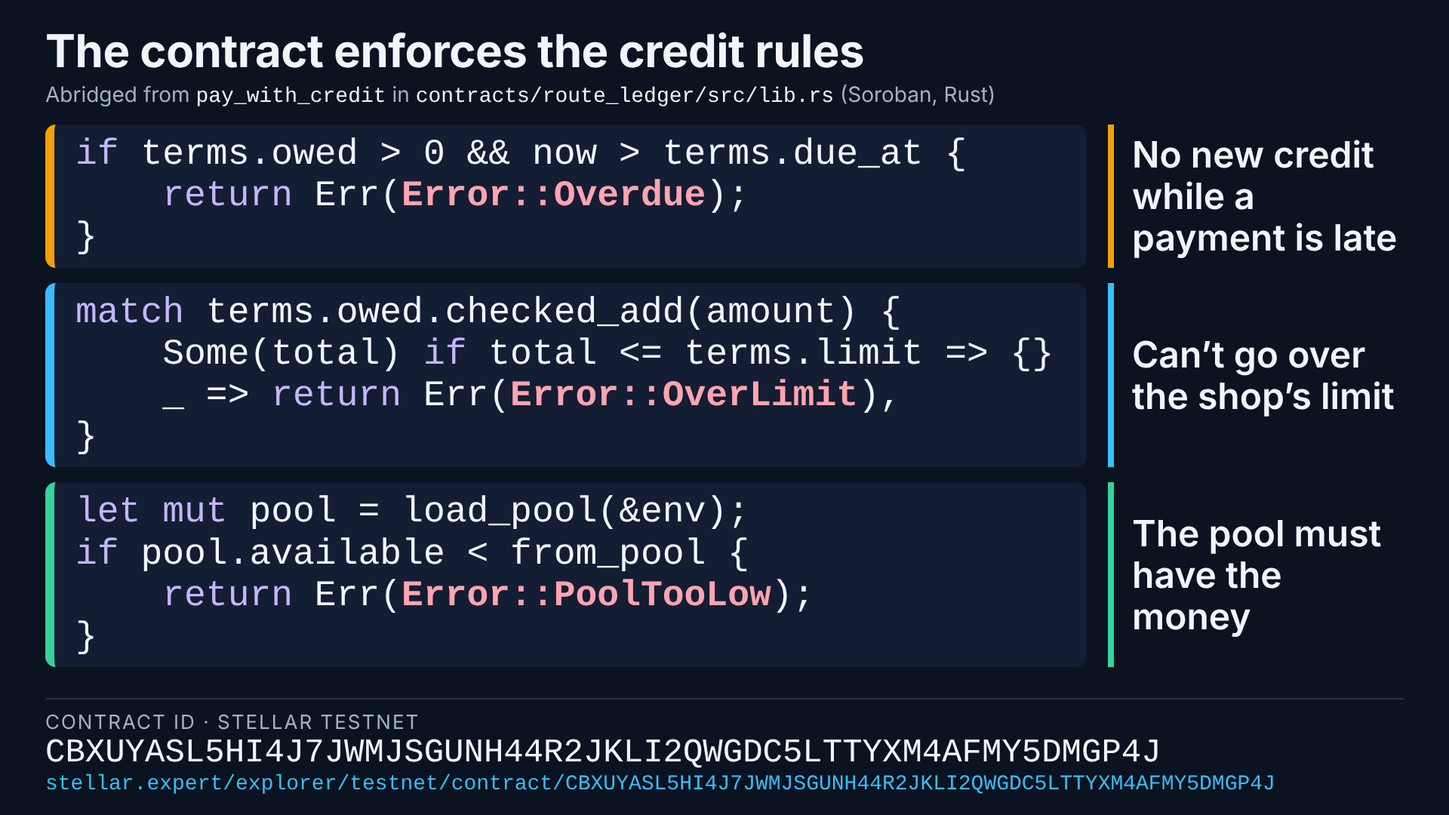
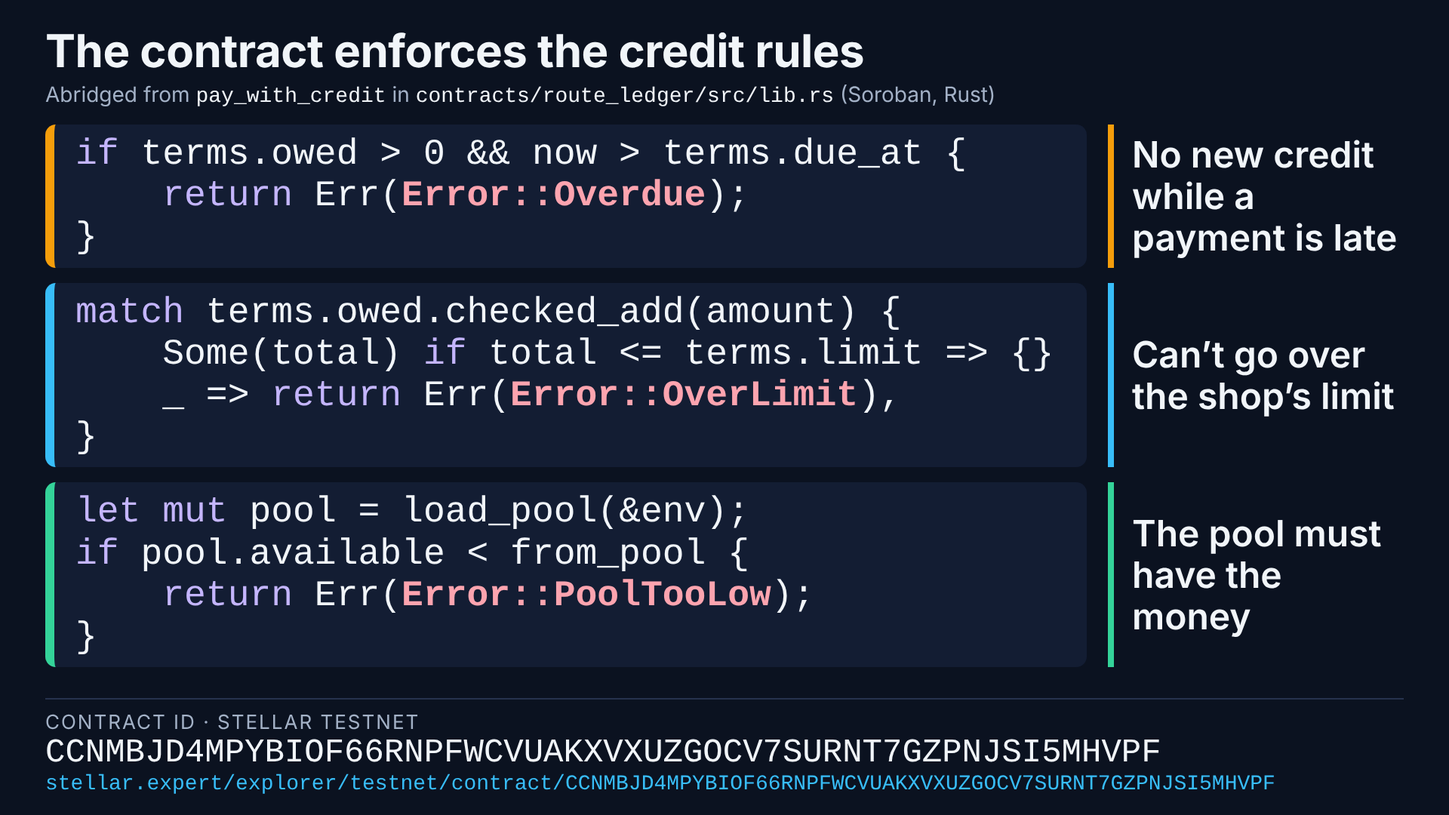
Redeploy after #251: live contract CCNMBJD4…, docs and code slide (#253)
* Redeploy: trusted 26/52 weeks, cash usage fees collected (#251)

* Live contract CCNMBJD4... everywhere; #250/#229 moved to Live in §7.8; code slide re-rendered

Claude-Session: https://claude.ai/code/session_012ShQunP3fqoPLPFGRjJtYT

---------

Changed region(s): [[0.0312, 0.8861, 0.875, 0.9778]]

diff --git a/packages/route_ledger/src/client.ts b/packages/route_ledger/src/client.ts
@@ -68,6 +68,11 @@ export interface Client {
   cash_confirm(args: { shop: string | Address; id: bigint; amount: bigint }, options?: MethodOptions): Promise<AssembledTransaction<Result<null, Error>>>;
   get_recourse(args: { distributor: string | Address }, options?: MethodOptions): Promise<AssembledTransaction<RecourseView>>;
   /**
+   * A distributor pays the usage fees it owes on cash invoices (#229), for
+   * a route whose shops only pay cash, so no digital payout nets them.
+   */
+  settle_usage(args: { distributor: string | Address; amount: bigint }, options?: MethodOptions): Promise<AssembledTransaction<Result<null, Error>>>;
+  /**
    * Anyone can call this once a shop the distributor vouches for is more
    * than `MINOR_LATE_DAYS` days late (#185). The distributor's deposit pays
    * the pool the vouched part, and the distributor collects from the shop
@@ -157,7 +162,7 @@ export interface Client {
 export class Client extends ContractClient {
   constructor(public readonly options: ContractClientOptions) {
     super(
[2 lines of base64/hex data omitted]
       options
     );
   }
@@ -166,7 +171,7 @@ export class Client extends ContractClient {
     return ContractClient.deploy(args, options);
   }
   public readonly fromJson = {
-    pay : this.txFromJson<Result<null, Error>>,  repay : this.txFromJson<Result<null, Error>>,  vouch : this.txFromJson<Result<null, Error>>,  deposit : this.txFromJson<Result<null, Error>>,  get_pool : this.txFromJson<Pool>,  get_shop : this.txFromJson<ShopView>,  withdraw : this.txFromJson<Result<bigint, Error>>,  is_lender : this.txFromJson<boolean>,  pay_later : this.txFromJson<Result<null, Error>>,  set_terms : this.txFromJson<Result<null, Error>>,  cash_claim : this.txFromJson<Result<null, Error>>,  get_config : this.txFromJson<Config>,  get_lender : this.txFromJson<LenderView>,  get_totals : this.txFromJson<Totals>,  fund_buffer : this.txFromJson<Result<null, Error>>,  get_invoice : this.txFromJson<Result<Invoice, Error>>,  cash_confirm : this.txFromJson<Result<null, Error>>,  get_recourse : this.txFromJson<RecourseView>,  call_recourse : this.txFromJson<Result<bigint, Error>>,  cover_default : this.txFromJson<Result<null, Error>>,  invoice_count : this.txFromJson<number>,  list_invoices : this.txFromJson<Array<Invoice>>,  revoke_lender : this.txFromJson<Result<null, Error>>,  approve_lender : this.txFromJson<void>,  cash_handed_in : this.txFromJson<Result<null, Error>>,  create_invoice : this.txFromJson<Result<null, Error>>,  get_cash_claim : this.txFromJson<bigint>,  get_usage_owed : this.txFromJson<bigint>,  is_distributor : this.txFromJson<boolean>,  get_driver_cash : this.txFromJson<bigint>,  pay_with_credit : this.txFromJson<Result<null, Error>>,  deposit_recourse : this.txFromJson<Result<null, Error>>,  offer_own_credit : this.txFromJson<Result<null, Error>>,  offers_own_credit : this.txFromJson<boolean>,  withdraw_recourse : this.txFromJson<Result<null, Error>>,  list_invoices_page : this.txFromJson<Array<Invoice>>,  revoke_distributor : this.txFromJson<void>,  approve_distributor : this.txFromJson<void>
+    pay : this.txFromJson<Result<null, Error>>,  repay : this.txFromJson<Result<null, Error>>,  vouch : this.txFromJson<Result<null, Error>>,  deposit : this.txFromJson<Result<null, Error>>,  get_pool : this.txFromJson<Pool>,  get_shop : this.txFromJson<ShopView>,  withdraw : this.txFromJson<Result<bigint, Error>>,  is_lender : this.txFromJson<boolean>,  pay_later : this.txFromJson<Result<null, Error>>,  set_terms : this.txFromJson<Result<null, Error>>,  cash_claim : this.txFromJson<Result<null, Error>>,  get_config : this.txFromJson<Config>,  get_lender : this.txFromJson<LenderView>,  get_totals : this.txFromJson<Totals>,  fund_buffer : this.txFromJson<Result<null, Error>>,  get_invoice : this.txFromJson<Result<Invoice, Error>>,  cash_confirm : this.txFromJson<Result<null, Error>>,  get_recourse : this.txFromJson<RecourseView>,  settle_usage : this.txFromJson<Result<null, Error>>,  call_recourse : this.txFromJson<Result<bigint, Error>>,  cover_default : this.txFromJson<Result<null, Error>>,  invoice_count : this.txFromJson<number>,  list_invoices : this.txFromJson<Array<Invoice>>,  revoke_lender : this.txFromJson<Result<null, Error>>,  approve_lender : this.txFromJson<void>,  cash_handed_in : this.txFromJson<Result<null, Error>>,  create_invoice : this.txFromJson<Result<null, Error>>,  get_cash_claim : this.txFromJson<bigint>,  get_usage_owed : this.txFromJson<bigint>,  is_distributor : this.txFromJson<boolean>,  get_driver_cash : this.txFromJson<bigint>,  pay_with_credit : this.txFromJson<Result<null, Error>>,  deposit_recourse : this.txFromJson<Result<null, Error>>,  offer_own_credit : this.txFromJson<Result<null, Error>>,  offers_own_credit : this.txFromJson<boolean>,  withdraw_recourse : this.txFromJson<Result<null, Error>>,  list_invoices_page : this.txFromJson<Array<Invoice>>,  revoke_distributor : this.txFromJson<void>,  approve_distributor : this.txFromJson<void>
   };
 
   /** @deprecated Use fromJson instead. */
@@ -237,6 +242,12 @@ export class Client extends ContractClient {
    */
   cashHandedInEventFilter(topicValues?: { driver?: string | Address }): string[] {
     return this.spec.eventTopicFilter("CashHandedIn", topicValues);
+  }
+  /**
+   * Build a topics filter row for the "UsageSettled" event, for use in `Api.EventFilter.topics` when calling `server.getEvents`. Omitted fields match any value.
+   */
+  usageSettledEventFilter(topicValues?: { distributor?: string | Address }): string[] {
+    return this.spec.eventTopicFilter("UsageSettled", topicValues);
   }
   /**
    * Build a topics filter row for the "CashConfirmed" event, for use in `Api.EventFilter.topics` when calling `server.getEvents`. Omitted fields match any value.

diff --git a/packages/route_ledger/src/types.ts b/packages/route_ledger/src/types.ts
@@ -330,6 +330,22 @@ export interface CashHandedInEvent {
 }
 
 /**
+ * Usage fees owed on cash invoices were paid (#229): netted from a payout,
+ * or sent by the distributor with `settle_usage`.
+ */
+export interface UsageSettledEvent {
+  name: "UsageSettled";
+  data: {
+    distributor: string;
+    amount?: bigint;
+    /**
+     * What it still owes after that.
+     */
+    owed?: bigint;
+  };
+}
+
+/**
  * Union: InvoiceStatus
  */
  export type InvoiceStatus =
@@ -508,5 +524,5 @@ export interface DistributorApprovedEvent {
     distributor: string;
   };
 }
-    export type ContractEvent = RepaidEvent | VouchedEvent | TermsSetEvent | DepositedEvent | PaidLaterEvent | WithdrawnEvent | CashClaimedEvent | InvoicePaidEvent | BufferFundedEvent | CashHandedInEvent | CashConfirmedEvent | LenderRevokedEvent | DefaultCoveredEvent | InvoiceCreatedEvent | LenderApprovedEvent | PaidWithCreditEvent | RecourseCalledEvent | OwnCreditOfferedEvent | RecourseDebtPaidEvent | RecourseDepositedEvent | RecourseWithdrawnEvent | DistributorRevokedEvent | DistributorApprovedEvent;
+    export type ContractEvent = RepaidEvent | VouchedEvent | TermsSetEvent | DepositedEvent | PaidLaterEvent | WithdrawnEvent | CashClaimedEvent | InvoicePaidEvent | BufferFundedEvent | CashHandedInEvent | UsageSettledEvent | CashConfirmedEvent | LenderRevokedEvent | DefaultCoveredEvent | InvoiceCreatedEvent | LenderApprovedEvent | PaidWithCreditEvent | RecourseCalledEvent | OwnCreditOfferedEvent | RecourseDebtPaidEvent | RecourseDepositedEvent | RecourseWithdrawnEvent | DistributorRevokedEvent | DistributorApprovedEvent;
     

diff --git a/docs/context.md b/docs/context.md
@@ -360,7 +360,7 @@ Learn only what your next task needs. Each item has a "done means" so you know w
 **In short**
 - Distributors pay us. Shops never pay a fee, and we never take a cut of anyone's savings.
 - Two small fees, both written into the contract so anyone can check them:
-  1. **Usage fee:** 0.05% to 0.1% of every invoice paid in cash or digitally. Credit sales don't pay it, because our cut is already inside the 1.5% credit fee (Nov 10). The demo contract uses 0.1%; for cash, no digital money moves, so the contract records it (`UsageOwed`) and collects it from the distributor's next digital or credit payout, or the distributor pays it with `settle_usage` (#229, live after the next redeploy). The rate is the same for cash and digital, so it doesn't push anyone back to cash. (This replaced the earlier monthly per-truck fee.)
+  1. **Usage fee:** 0.05% to 0.1% of every invoice paid in cash or digitally. Credit sales don't pay it, because our cut is already inside the 1.5% credit fee (Nov 10). The demo contract uses 0.1%; for cash, no digital money moves, so the contract records it (`UsageOwed`) and collects it from the distributor's next digital or credit payout, or the distributor pays it with `settle_usage` (#229, live since the Nov 16 redeploy after #251). The rate is the same for cash and digital, so it doesn't push anyone back to cash. (This replaced the earlier monthly per-truck fee.)
   2. **A share of the credit fee** when a shop uses "pay in 7 days".
 - Later: lenders and banks pay to see a shop's payment record, only with the shop's permission.
 
@@ -568,7 +568,7 @@ What not to say: that cash-in is solved, or that $1.25 is a quote. Until the fie
 
 ### 7.8 What's live and what's planned (Nov 16)
 
-Live means it's on the site today, on the contract in `config/testnet.json`. Planned means decided but not built, or built but not merged. The final redeploy ran on Nov 16 (contract `CBXUYASL…GP4J`, PR #222), so everything that waited in [#234 "Waiting for redeploy"](https://github.com/yahyahashme/relay/issues/234) is live now and #234 is closed.
+Live means it's on the site today, on the contract in `config/testnet.json`. Planned means decided but not built, or built but not merged. The latest redeploy ran on Nov 16 (contract `CCNMBJD4…5MHVPF`, after PR #251; the one before was `CBXUYASL…GP4J`, PR #222), so everything that waited in [#234 "Waiting for redeploy"](https://github.com/yahyahashme/relay/issues/234) and in #251 is live now.
 
 **Live**
 - **Credit starts only after 2 digital payments** (#217, #218). A new shop gets no credit at sign-up. Credit opens after 2 deliveries paid in full in dólares digitales at the door, a credit period apart (a week; 2 minutes in the demo). The first limit is half its usual delivery, $50 to $100. A runaway shop takes about $100 at most and loses its supplier.
@@ -599,11 +599,11 @@ Live means it's on the site today, on the contract in `config/testnet.json`. Pla
   4. **Legal action** (estafa) is a manual step after closing, backed by the liability agreement each distributor signs (§11); the admin writes it in the review's note.
   Not checked yet: the same phone (device) signing in to both accounts. Cash breaks the circle trail (a friend buys digital dollars at a counter); long term, only payments from ID-checked sources count.
 - **Credit v3** (#220, PR #222): "Crédito Relay X/500", tiered growth (+$10 to +$30 by the size of each on-time repayment, at least $10 repaid, once a period, up to $500), the "Calificación Relay" from 1 to 10, and lenders see pool numbers only. Details in §7.3.
+- **Trusted-shop discount takes 6 months and a year** (#250, PR #251, Rohan): `TRUSTED_CYCLES` 26 and `HIGHLY_TRUSTED_CYCLES` 52 (were 4 and 8).
+- **Cash usage fees are collected** (#229, PR #251, options A + B): cash invoices still add 0.10% to `UsageOwed(distributor)`. The distributor's next payout (a digital payment, a credit payout or a deposit withdrawal) sends what it owes to the treasury first, after any recourse debt, never more than the payout, with a `UsageSettled` event. A cash-only distributor pays with `settle_usage(distributor, amount)`. Option C (a cap on unpaid fees) is a policy in the liability agreement (#221), not code.
 - **Full recourse on vouched shops** (PR #222): if a vouched shop doesn't pay, the distributor owes all of it, first from its deposit, then from its next payouts (digital payments, credit payouts, deposit withdrawals). It can't vouch for new shops until it's paid, and the dashboard shows "Debe $X al fondo".
 
-**Waiting for the next redeploy** (contract changes merged on `main`, not yet on `CBXUYASL…`)
-- **Trusted-shop discount takes 6 months and a year** (#250, Rohan): `TRUSTED_CYCLES` 26 and `HIGHLY_TRUSTED_CYCLES` 52 (were 4 and 8).
-- **Cash usage fees are collected** (#229, options A + B): cash invoices still add 0.10% to `UsageOwed(distributor)`. The distributor's next payout (a digital payment, a credit payout or a deposit withdrawal) sends what it owes to the treasury first, after any recourse debt, never more than the payout, with a `UsageSettled` event. A cash-only distributor pays with `settle_usage(distributor, amount)`. Option C (a cap on unpaid fees) is a policy in the liability agreement (#221), not code.
+**Waiting for the next redeploy:** nothing (Nov 16).
 
 **Planned**
 - **Real ID checks** (game plan §2d). An identity-verification partner checks the legal representative's DUI against the national registry (RNPN), with a selfie and liveness check, for about $0.20 to $1.50 a person. Don't name the provider in the pitch. An admin checks the CNR registration by hand. Payouts only go to an account in the company's name at our bank or cash-in partner, which runs its own KYB. Lenders also show their licence. Shops get a light DUI check only when they first take credit. The pilot distributor is checked by hand on a call; the partner check comes before the second distributor.
@@ -939,6 +939,7 @@ Every number and quote is in `docs/facts.md`. The two right-hand columns are our
 | Nov 16 | Credit only in digital dollars (Yahya: "all credit payments only via usdc"). Pool credit already was. An invoice on the distributor's own 7 days can no longer be paid in cash: app now, contract `cash_claim` refuses it with the #222 redeploy. The 1.5% fee was never at risk (the pool keeps it when it pays the distributor). |
 | Nov 16 | Part cash at the door kept (Yahya, after first removing it in #237): cash part now, the rest on the lenders' 7 days, repaid only in dólares digitales. The fee is kept when the pool pays, so cash never touches credit. Cash still can't pay an invoice on the distributor's own 7 days. |
 | Nov 16 | Final redeploy (PR #222): contract `CBXUYASL5HI4J7JWMJSGUNH44R2JKLI2QWGDC5LTTYXM4AFMY5DMGP4J`. Credit v3, full recourse, credit repaid only digitally and cash earning no up-front benefit are live; #234 closed. Smoke test on testnet: $50 cash + $100 credit paid 1.50%, half digital + half credit 1.22%, a $100 repay raised the limit $200 → $225. |
+| Nov 16 | Redeploy after PR #251: contract `CCNMBJD4MPYBIOF66RNPFWCVUAKXVXUZGOCV7SURNT7GZPNJSI5MHVPF` replaces `CBXUYASL…GP4J`. Trusted tiers at 26/52 good weeks (#250) and cash usage fees collected from the next payout or `settle_usage` (#229) are live; §7.8 moved them to Live. Bindings regenerated, accounts resynced. |
 | Nov 16 | Cash up front earns no credit benefit (Yahya: the cash part "should count as way less credit or even none"). The contract keeps `CashPaid` per invoice, and `pay_with_credit` prices the fee and the half-up-front waiver as if the cash part weren't on the invoice: $50 cash + $50 on credit pays 1.50% like $50 all on credit; $50 in digital dollars + $50 on credit pays 1.22%. Goes out with the #222 redeploy. |
 | Nov 16 | #231 fraud flags built (Yahya's policy, #221): six checks on every distributor's invoices after each new invoice and on "Revisar ahora" in `/admin`, credit on the pool paused while in review, "Pedir prueba" (DTE code or delivery photo), "Despejar" or "Cerrar cuenta" (`revoke_distributor`; for a shop, limit $0), and a note for legal action. Stored in `fraud_reviews`. App only. Details in §7.8. |
 | Nov 16 | Full recourse on vouched shops (Yahya: "every shop that doesn't pay back on credit, the distributor owes the lenders that same amount"). Contract, stacked on #222 for one redeploy: `take_recourse` moves the whole vouched debt to the distributor; what the deposit can't pay is `RecourseDebt`, counted as lent, paid first from its next payouts (`pay_distributor` in `pay`, `pay_with_credit`, `withdraw_recourse`); `vouch` refuses with error 22 while it owes, and its credit sales go at the normal fee. A default still sets the shop's limit to $0. The 20% deposit minimum stays. |

diff --git a/docs/pitch/one-pager.md b/docs/pitch/one-pager.md
@@ -49,7 +49,7 @@ Distributors pay, never shops: up to 1.5% to be paid instantly on pay-in-7-days 
 Target: 120 to 150 words.
 
 <!-- q6 -->
-Rohan studies FARM (Financial Analysis and Risk Management), which covers the credit and risk side. Three engineers (software, two computer) built and tested our public contract, CBXUYASL5HI4J7JWMJSGUNH44R2JKLI2QWGDC5LTTYXM4AFMY5DMGP4J on Stellar testnet, and the app: https://relay-sv.vercel.app. Then we asked for help: 2 advisor calls, and emails to 4 banks and a supermarket chain in El Salvador. We are first-year Waterloo students and none of us has run a shop, so we learned this from them.
+Rohan studies FARM (Financial Analysis and Risk Management), which covers the credit and risk side. Three engineers (software, two computer) built and tested our public contract, CCNMBJD4MPYBIOF66RNPFWCVUAKXVXUZGOCV7SURNT7GZPNJSI5MHVPF on Stellar testnet, and the app: https://relay-sv.vercel.app. Then we asked for help: 2 advisor calls, and emails to 4 banks and a supermarket chain in El Salvador. We are first-year Waterloo students and none of us has run a shop, so we learned this from them.
 
 We also say the hardest part plainly. Risk #1 is turning cash into digital dollars, and our demo simulates it. MoneyGram lists cash-out points in El Salvador. For cash-in, a shop can already get USDC on Stellar through a Chivo cash machine and a LOBSTR wallet swap, for about $1.25 on $50 on published fees. We field-test that route first. Long term, a licensed partner converts cash in bulk and does KYC on shops and KYB on distributors.
 <!-- /q6 -->
@@ -81,12 +81,12 @@ Every number in answers 4 to 6. "Confirm" means Rohan checks it against his fina
 | four first-year students | 6 | Context header | True as of Nov 10. |
 | Rohan studies FARM (Financial Analysis and Risk Management) | 6 | Yahya's review comment on #64 (Nov 10). Context says only "FARM". | Rohan to confirm the wording. |
 | Three engineers (software, two computer) built and tested the contract and app | 6 | Yahya's review comment on #64; context header lists the programs | Yahya to confirm this fairly describes all three. |
-| Contract `CBXUYASL…` and https://relay-sv.vercel.app | 6 | `config/testnet.json` (`contracts.routeLedger`) and the README table; the URL returned HTTP 200 on Nov 12 | New ID after the #139 redeploy (it replaces `CDHDZX7V…`, which replaced `CAPQ6ZDD…` in #90). Verified 12 Nov: the ID in answer 6 equals `contracts.routeLedger` in `config/testnet.json` (same on `origin/main`) and the README table; `curl -sI https://relay-sv.vercel.app` returned HTTP 200. `CANWPJKT…` in the same file is the test USDC token, not our contract. Re-check if the contract is redeployed again. |
+| Contract `CCNMBJD4…` and https://relay-sv.vercel.app | 6 | `config/testnet.json` (`contracts.routeLedger`) and the README table; the URL returned HTTP 200 on Nov 12 | New ID after the #139 redeploy (it replaces `CDHDZX7V…`, which replaced `CAPQ6ZDD…` in #90). Verified 12 Nov: the ID in answer 6 equals `contracts.routeLedger` in `config/testnet.json` (same on `origin/main`) and the README table; `curl -sI https://relay-sv.vercel.app` returned HTTP 200. `CANWPJKT…` in the same file is the test USDC token, not our contract. Re-check if the contract is redeployed again. |
 | 2 advisor calls | 6 | `docs/research.md` "Advisor calls (Nov 9)" (merged in #72, #17) | Matches the log (two advisors, both calls Mon Nov 9); checked by Claude, 12 Nov, against the file on `main`. |
 | emails to 4 banks and a supermarket chain in El Salvador | 6 | `docs/research.md` "Partner outreach", PR #89 (#10): five rows dated Nov 10 (Promerica, Abank, Integral, Davivienda, Súper Selectos) | Checked by Claude, 12 Nov. The Nov 11 email to a Davivienda colleague is not counted again. The log's own pitch line says "6 banks and cash-in companies", which counts that email as a sixth organisation; recount if Rohan sends more tonight. PR #89 is still open, so the log is not on `main` yet. |
 | Cut: shop-owner and distributor conversations (#7), prototype walkthroughs (#30) | 6 | No count in issues #7, #30 or any `docs/research.md` | Removed Nov 12 because no number is logged. Add one back only if it is logged before submit. |
 
-**After the final redeploy (Nov 16, #222/#234):** answer 6 now has `CBXUYASL…`, the live ID in `config/testnet.json`. The copy submitted on Nov 13 had `CAGCZ3I7…` (retired).
+**After the Nov 16 redeploy (#251):** answer 6 now has `CCNMBJD4…`, the live ID in `config/testnet.json` (before it: `CBXUYASL…`, #222). The copy submitted on Nov 13 had `CAGCZ3I7…` (retired).
 
 **After #139 (Nov 13).** The contract was redeployed: answer 6 now has the live ID, `CAGCZ3I7…` (`config/testnet.json`). A copy sent before #139 had `CDHDZX7V…`, the ID then. The credit fee is now **up to** 1.5%: 1.5% when the whole invoice goes on credit and lower, down to 1%, when the shop pays part up front. Answer 5 still says "1.5%" (true at full credit); say "up to 1.5%" if it's reused.
 

diff --git a/docs/product/security.md b/docs/product/security.md
@@ -2,7 +2,7 @@
 
 This is the page to open when someone asks "who can move the money?". It covers the `route_ledger` contract (`contracts/route_ledger/src/lib.rs`), how keys are handled, what is real versus demo, and how we handle fraud. It is a testnet demo: no real dollars, no outside audit.
 
-Reviewed Nov 16, 2026 against `lib.rs` on main: the live contract `CBXUYASL…GP4J` (PR #222: credit v3, full recourse, cash rules) plus #251 (trusted tiers at 26/52 good weeks, cash usage fees collected), which goes live with the next redeploy. Claims about the contract have a test in `contracts/route_ledger/src/test.rs`; the names are in brackets.
+Reviewed Nov 16, 2026 against `lib.rs` on main: the live contract `CCNMBJD4…5MHVPF` (redeployed Nov 16 after #251): PR #222 (credit v3, full recourse, cash rules) plus #251 (trusted tiers at 26/52 good weeks, cash usage fees collected). Claims about the contract have a test in `contracts/route_ledger/src/test.rs`; the names are in brackets.
 
 ## 1. Who can move the money
 
@@ -18,7 +18,7 @@ Every state-changing function either calls `require_auth()` on the address it ta
 | `cash_claim` | the driver on the invoice | its invoice, not paid, **not on the distributor's own 7 days** (`OnPayLater`), amount above 0 and not over what is left | nothing; it stores the claim [`pay_later_is_never_paid_in_cash`]. |
 | `cash_confirm` | the shop on the invoice | a claim exists, it equals the amount the shop saw (`ClaimChanged`), still fits what is left | no tokens. Adds to `paid`, the driver's cash total and the distributor's usage fee owed. Records the cash part, which earns no up-front fee benefit [`cash_up_front_earns_no_lower_credit_fee`, `cash_up_front_does_not_count_as_half_paid`]. |
 | `cash_handed_in` | a distributor that was ever approved | amount above 0 and not over what the driver holds | no tokens; lowers the driver's cash total (limit 3). |
-| `settle_usage` (#251, next redeploy) | the distributor | amount above 0 and not over what it owes | its own tokens to the treasury, for usage fees on cash. Its next payout (digital, credit or deposit withdrawal) also pays them first, after any recourse debt. |
+| `settle_usage` (#251) | the distributor | amount above 0 and not over what it owes | its own tokens to the treasury, for usage fees on cash. Its next payout (digital, credit or deposit withdrawal) also pays them first, after any recourse debt. |
 | `deposit` | an approved lender | approved and not revoked (`NotLender`), amount above 0 | the lender's own tokens into the pool, for shares at today's value [`only_approved_lenders_can_deposit`, `a_later_lender_does_not_take_earlier_earnings`]. |
 | `withdraw` | the lender | has the shares (`NotEnoughShares`), the money isn't lent out (`PoolTooLow`) | **pool money**, to that lender only, at the shares' value [`lender_earns_on_credit_and_withdraws_it`, `lent_money_cannot_be_withdrawn_until_repaid`]. |
 | `set_terms` | admin | limit not negative | nothing directly; sets a shop's limit. |
@@ -102,7 +102,7 @@ The Stellar Development Foundation can wipe testnet, which deletes our contract,
 ## 7. Known limits
 
 1. **The admin is trusted.** It can't move tokens, but with `approve_distributor` and `set_terms` it could make an address it controls a distributor and give a shop it controls a large limit. For real: the licensed partner as a multisig, a cap on limits, and vetting for each distributor.
-2. **Usage fees on cash are collected only from payouts or by choice.** Since #251 (next redeploy) the next payout to the distributor pays them first, and `settle_usage` lets a cash-only distributor pay. A distributor that never takes a payout and never settles still owes them; the liability agreement caps how much can stay unpaid (policy, not code).
+2. **Usage fees on cash are collected only from payouts or by choice.** Since #251 (live Nov 16) the next payout to the distributor pays them first, and `settle_usage` lets a cash-only distributor pay. A distributor that never takes a payout and never settles still owes them; the liability agreement caps how much can stay unpaid (policy, not code).
 3. **`cash_handed_in` can't tell which distributor a driver works for.** Any approved (or revoked) distributor can lower any driver's cash total. Bookkeeping only; no tokens move.
 4. **The buffer only moves in `cover_default`,** from the buffer back to the lenders. A written-off debt repaid later refills the buffer, not the lenders who took the loss.
 5. **A stale cash claim stays in storage** after the invoice is paid another way. `cash_confirm` rejects it; screens ignore it.

diff --git a/docs/pitch/deck-outline.md b/docs/pitch/deck-outline.md
@@ -53,7 +53,7 @@ The words for each slide are in `docs/pitch/deck-slides.md`, under the same numb
 
 ### 5. The code
 - **Message:** the credit rules are real contract code, not a mock-up.
-- **Visual:** `docs/img/code-slide.png` (from #56). Ready on `main`: PR #82 (merged) repaired the render and added `SCALE=3 node docs/pitch/slides/render.mjs` for print-size images, and the PNG was re-rendered Fri Nov 13 after #139, so it shows the contract ID of the time (CAGCZ3I7..., retired Nov 16; re-rendered Nov 16 for the live CBXUYASL..., equal to `contracts.routeLedger` in `config/testnet.json`) and the current `pay_with_credit` blocks (overdue check, `match` limit check, pool check). The two older IDs it used to show (CAPQ6ZDD... before #90, CDHDZX7V... between #90 and #139) are gone. The script reads the ID and the code itself, but the PNG does not update itself: re-render it after any redeploy or any change to `pay_with_credit`.
+- **Visual:** `docs/img/code-slide.png` (from #56). Ready on `main`: PR #82 (merged) repaired the render and added `SCALE=3 node docs/pitch/slides/render.mjs` for print-size images, and the PNG was re-rendered Fri Nov 13 after #139, so it shows the contract ID of the time (CAGCZ3I7..., retired Nov 16; re-rendered Nov 16 for CBXUYASL..., then again for the live CCNMBJD4... after #251, equal to `contracts.routeLedger` in `config/testnet.json`) and the current `pay_with_credit` blocks (overdue check, `match` limit check, pool check). The two older IDs it used to show (CAPQ6ZDD... before #90, CDHDZX7V... between #90 and #139) are gone. The script reads the ID and the code itself, but the PNG does not update itself: re-render it after any redeploy or any change to `pay_with_credit`.
 - **Needs:** nothing. The deployed contract's WASM hash matches a fresh build of #139's code (checked Nov 13, comment on #139). `git log` shows #139 (Fri Nov 13, 7:36 PM ET, commit 517b426) as the last change under `contracts/`; its merge also put the new ID in `config/testnet.json`.
 
 ### 6. Money in 30 seconds, and go-to-market
@@ -113,7 +113,7 @@ For slide 3 and the trifold's middle panel. They have to come from the live app 
 | "What we heard from N people" | #30; `docs/research.md` (#72) | cut from slide 7 on Nov 14: 0 conversations with users (PR #152 logs messages sent only). Add it back only with a real count |
 | Slide text for the 8 slides | `docs/pitch/deck-slides.md` | refreshed Nov 12; slide 7 updated Nov 14. The only bracket left is slide 8's `[our ask]` |
 | Real phone screenshots | live app; steps above | captured in PR #119 (`docs/pitch/trifold/img/`); #125 and #126 merged after, so compare with the live app and recapture if they differ |
-| Code slide with the real contract ID | #56 follow-up, PR #82 | done (Nov 13): PR #82 merged, and the PNG was re-rendered after #139; `docs/img/code-slide.png` on `main` shows the live ID (CBXUYASL..., re-rendered Nov 16 after the final redeploy). Re-render after any redeploy |
+| Code slide with the real contract ID | #56 follow-up, PR #82 | done (Nov 13): PR #82 merged, and the PNG was re-rendered after #139; `docs/img/code-slide.png` on `main` shows the live ID (CCNMBJD4..., re-rendered Nov 16 after the #251 redeploy). Re-render after any redeploy |
 | Print-size slide images | `SCALE=3 node docs/pitch/slides/render.mjs` (PR #82) | merged; the option is in `docs/pitch/slides/render.mjs` (render on the computer that prints, after the last redeploy) |
 | Architecture picture with the fee-sponsorship line | #119 put it back after #113 turned sponsorship on | done, on `main` |
 | Our ask | team decision | open |

diff --git a/docs/pitch/showcase-and-finals.md b/docs/pitch/showcase-and-finals.md
@@ -157,7 +157,7 @@ Run this on the file you are about to upload, not on the draft.
 
 - [ ] **Every number has a `docs/facts.md` entry.** Read each slide and write the entry number next to each number. A number with no entry: take it out, or add the entry in a PR first. Nothing from the "Never use" list at the top of `docs/facts.md`.
 - [ ] **"$35 per $100" says "2019 survey"** wherever it appears (facts entry 10).
-- [ ] **Any contract ID equals `contracts.routeLedger` in `config/testnet.json`.** Compare character by character, on the slide and on any image such as the code slide. Do not copy an ID from an old doc. **Since the final redeploy (Nov 16) the live ID is `CBXUYASL5HI4J7JWMJSGUNH44R2JKLI2QWGDC5LTTYXM4AFMY5DMGP4J`; everything below about `CAGCZ3I7…` is history.** On Fri Nov 13 evening the live ID was `CAGCZ3I7…` (the #139 redeploy; `config/testnet.json` and the README table). `docs/img/code-slide.png` on `main` shows it since #165 (merged Sat Nov 14; read by eye on Nov 14: the start `CAGCZ3I7CQHZDELPV5…` and the end `…HED7HV4ML` match). `docs/pitch/demo-video.md` and answer 6 of `docs/pitch/one-pager.md` still hold the previous one (`CDHDZX7V…`) on `main` until PR #163 merges: #163 sets both to `CAGCZ3I7…` and adds a note to the one-pager that a copy sent before #139 had `CDHDZX7V…`. Re-check those two after #163 merges, and again after any redeploy.
+- [ ] **Any contract ID equals `contracts.routeLedger` in `config/testnet.json`.** Compare character by character, on the slide and on any image such as the code slide. Do not copy an ID from an old doc. **Since the Nov 16 redeploy after #251 the live ID is `CCNMBJD4MPYBIOF66RNPFWCVUAKXVXUZGOCV7SURNT7GZPNJSI5MHVPF` (it replaced `CBXUYASL…`); everything below about older IDs is history.** On Fri Nov 13 evening the live ID was `CAGCZ3I7…` (the #139 redeploy; `config/testnet.json` and the README table). `docs/img/code-slide.png` on `main` shows it since #165 (merged Sat Nov 14; read by eye on Nov 14: the start `CAGCZ3I7CQHZDELPV5…` and the end `…HED7HV4ML` match). `docs/pitch/demo-video.md` and answer 6 of `docs/pitch/one-pager.md` still hold the previous one (`CDHDZX7V…`) on `main` until PR #163 merges: #163 sets both to `CAGCZ3I7…` and adds a note to the one-pager that a copy sent before #139 had `CDHDZX7V…`. Re-check those two after #163 merges, and again after any redeploy.
 - [ ] **No advisor names** anywhere, including slide notes. Roles only ("our startup advisor", "our technical and finance advisor").
 - [ ] **Fee sponsorship is worded as built, and no more.** Say "our sponsor account pays the network fees" (#113). Not "gasless", not "users never need XLM" (the demo accounts hold test XLM), and no passkeys: they are not built.
 - [ ] **No placeholders left:** search the file for `[`, `]`, "TBD", "PENDING" and `[NAME]`.

diff --git a/README.md b/README.md
@@ -9,7 +9,7 @@
 
 Neighbourhood shops (tiendas) in El Salvador buy their stock from distributors. In a four-country survey, 8 in 10 small businesses in El Salvador, Guatemala, Honduras and Mexico pay suppliers mainly in cash, and in El Salvador 6 in 10 informal small businesses have borrowed from loan sharks. This app lets a shop pay its supplier in digital dollars, or take the stock now and pay in 7 days with no interest, while a Stellar smart contract keeps the record and enforces the credit rules.
 
-**Live app:** [relay-sv.vercel.app](https://relay-sv.vercel.app) · **Contract on Stellar testnet:** [`CBXUYASL…GP4J` on stellar.expert](https://stellar.expert/explorer/testnet/contract/CBXUYASL5HI4J7JWMJSGUNH44R2JKLI2QWGDC5LTTYXM4AFMY5DMGP4J) (every payment and fee split is public) · Built for the Velocity x Stellar challenge (Nov 2026) by Yahya, Jack, Rohan and Ruhaan. Plan and decisions: [docs/context.md](docs/context.md).
+**Live app:** [relay-sv.vercel.app](https://relay-sv.vercel.app) · **Contract on Stellar testnet:** [`CCNMBJD4…HVPF` on stellar.expert](https://stellar.expert/explorer/testnet/contract/CCNMBJD4MPYBIOF66RNPFWCVUAKXVXUZGOCV7SURNT7GZPNJSI5MHVPF) (every payment and fee split is public) · Built for the Velocity x Stellar challenge (Nov 2026) by Yahya, Jack, Rohan and Ruhaan. Plan and decisions: [docs/context.md](docs/context.md).
 
 ## What's in this repo
 
@@ -52,7 +52,7 @@ Stellar testnet, deployed 2026-11-16 by `scripts/deploy.sh`.
 
 | What | ID | Explorer |
 |---|---|---|
-| `route_ledger` contract | `CBXUYASL5HI4J7JWMJSGUNH44R2JKLI2QWGDC5LTTYXM4AFMY5DMGP4J` | [stellar.expert](https://stellar.expert/explorer/testnet/contract/CBXUYASL5HI4J7JWMJSGUNH44R2JKLI2QWGDC5LTTYXM4AFMY5DMGP4J) |
+| `route_ledger` contract | `CCNMBJD4MPYBIOF66RNPFWCVUAKXVXUZGOCV7SURNT7GZPNJSI5MHVPF` | [stellar.expert](https://stellar.expert/explorer/testnet/contract/CCNMBJD4MPYBIOF66RNPFWCVUAKXVXUZGOCV7SURNT7GZPNJSI5MHVPF) |
 | Test USDC token | `CANWPJKTWATAQKWD4VNDRMPHHWONWJ5IMCIJ2OTJNYFZ5IDQWX2E2NUP` | [stellar.expert](https://stellar.expert/explorer/testnet/contract/CANWPJKTWATAQKWD4VNDRMPHHWONWJ5IMCIJ2OTJNYFZ5IDQWX2E2NUP) |
 
 Test USDC is our own, issued by `tiendas-issuer`, not Circle's.

diff --git a/docs/pitch/deck-slides.md b/docs/pitch/deck-slides.md
@@ -68,7 +68,7 @@ Written Wed Nov 11 from `docs/pitch/deck-outline.md`, `docs/pitch/pitch.md` (PR 
 2. Late payment, over the limit, empty pool: all refused.
 
 **Small print:** Abridged from `pay_with_credit` in `contracts/route_ledger/src/lib.rs`. The contract ID and its stellar.expert link are on the image.
-**Visual:** `docs/img/code-slide.png`. Ready on `main`: re-rendered Fri Nov 13 after #139 merged, so it shows the contract ID of the time (CAGCZ3I7..., retired Nov 16; re-rendered Nov 16 for the live CBXUYASL...), equal to `contracts.routeLedger` in `config/testnet.json`, and the three blocks as they are now in `pay_with_credit`. `node docs/pitch/slides/render.mjs` reads both the ID and the code, so the script can't drift, but the PNG can: re-render it after any redeploy or any change to `pay_with_credit`. The old IDs (CAPQ6ZDD..., CDHDZX7V...) are gone from it. It shows no fee code, and its first callout ("No new credit while a payment is late") is still true: #139 changed what `repay` does about lateness, not the overdue check. Re-render at the print size too if the slide is printed (`SCALE=3 node docs/pitch/slides/render.mjs`).
+**Visual:** `docs/img/code-slide.png`. Ready on `main`: re-rendered Fri Nov 13 after #139 merged, so it shows the contract ID of the time (CAGCZ3I7..., retired Nov 16; re-rendered Nov 16 for CBXUYASL..., then again for the live CCNMBJD4... after #251), equal to `contracts.routeLedger` in `config/testnet.json`, and the three blocks as they are now in `pay_with_credit`. `node docs/pitch/slides/render.mjs` reads both the ID and the code, so the script can't drift, but the PNG can: re-render it after any redeploy or any change to `pay_with_credit`. The old IDs (CAPQ6ZDD..., CDHDZX7V...) are gone from it. It shows no fee code, and its first callout ("No new credit while a payment is late") is still true: #139 changed what `repay` does about lateness, not the overdue check. Re-render at the print size too if the slide is printed (`SCALE=3 node docs/pitch/slides/render.mjs`).
 **Waiting on:** nothing: the deployed WASM hash matches #139's code (checked Nov 13).
 
 ## 6. Money in 30 seconds, and go-to-market (30 s)

diff --git a/docs/product/assumptions.md b/docs/product/assumptions.md
@@ -112,7 +112,7 @@ Other costs that sit outside our budget: the licensed lender's share is the 0.50
 | Only 10% of sales on credit instead of 20% | $8,970 | ≈ 23 |
 | **All** credit sales are pay-later or vouched | $7,800 | ≈ 28 |
 
-**Cash usage fees (Nov 16, #229):** revenue counts the 0.10% on cash invoices as collected. The contract records it and, from the next redeploy, takes it out of the distributor's next digital or credit payout (or the distributor pays it with `settle_usage`). A distributor whose shops only ever pay cash must settle it itself; the liability agreement (#221) covers one that doesn't.
+**Cash usage fees (Nov 16, #229):** revenue counts the 0.10% on cash invoices as collected. The contract records it and, since the Nov 16 redeploy, takes it out of the distributor's next digital or credit payout (or the distributor pays it with `settle_usage`). A distributor whose shops only ever pay cash must settle it itself; the liability agreement (#221) covers one that doesn't.
 
 Heavy use of pay-later or vouching is good for shops and distributors but pushes our break-even up, because we earn 0.10% instead of 0.25% on those sales.
 

diff --git a/docs/pitch/demo-video.md b/docs/pitch/demo-video.md
@@ -60,8 +60,8 @@ would be $2.25 and the distributor would get $147.75). Say what the screen shows
 ## End card
 
 - App: https://relay-sv.vercel.app
-- Contract: `CBXUYASL5HI4J7JWMJSGUNH44R2JKLI2QWGDC5LTTYXM4AFMY5DMGP4J`
-  (https://stellar.expert/explorer/testnet/contract/CBXUYASL5HI4J7JWMJSGUNH44R2JKLI2QWGDC5LTTYXM4AFMY5DMGP4J), the final redeploy of Nov 16 (#222). Always check it against `contracts.routeLedger` in `config/testnet.json`.
+- Contract: `CCNMBJD4MPYBIOF66RNPFWCVUAKXVXUZGOCV7SURNT7GZPNJSI5MHVPF`
+  (https://stellar.expert/explorer/testnet/contract/CCNMBJD4MPYBIOF66RNPFWCVUAKXVXUZGOCV7SURNT7GZPNJSI5MHVPF), the Nov 16 redeploy after #251. Always check it against `contracts.routeLedger` in `config/testnet.json`.
 - Product name: **Relay**, with *Del efectivo al crédito* under it (PR #100)
 
 ## If something goes wrong while recording
